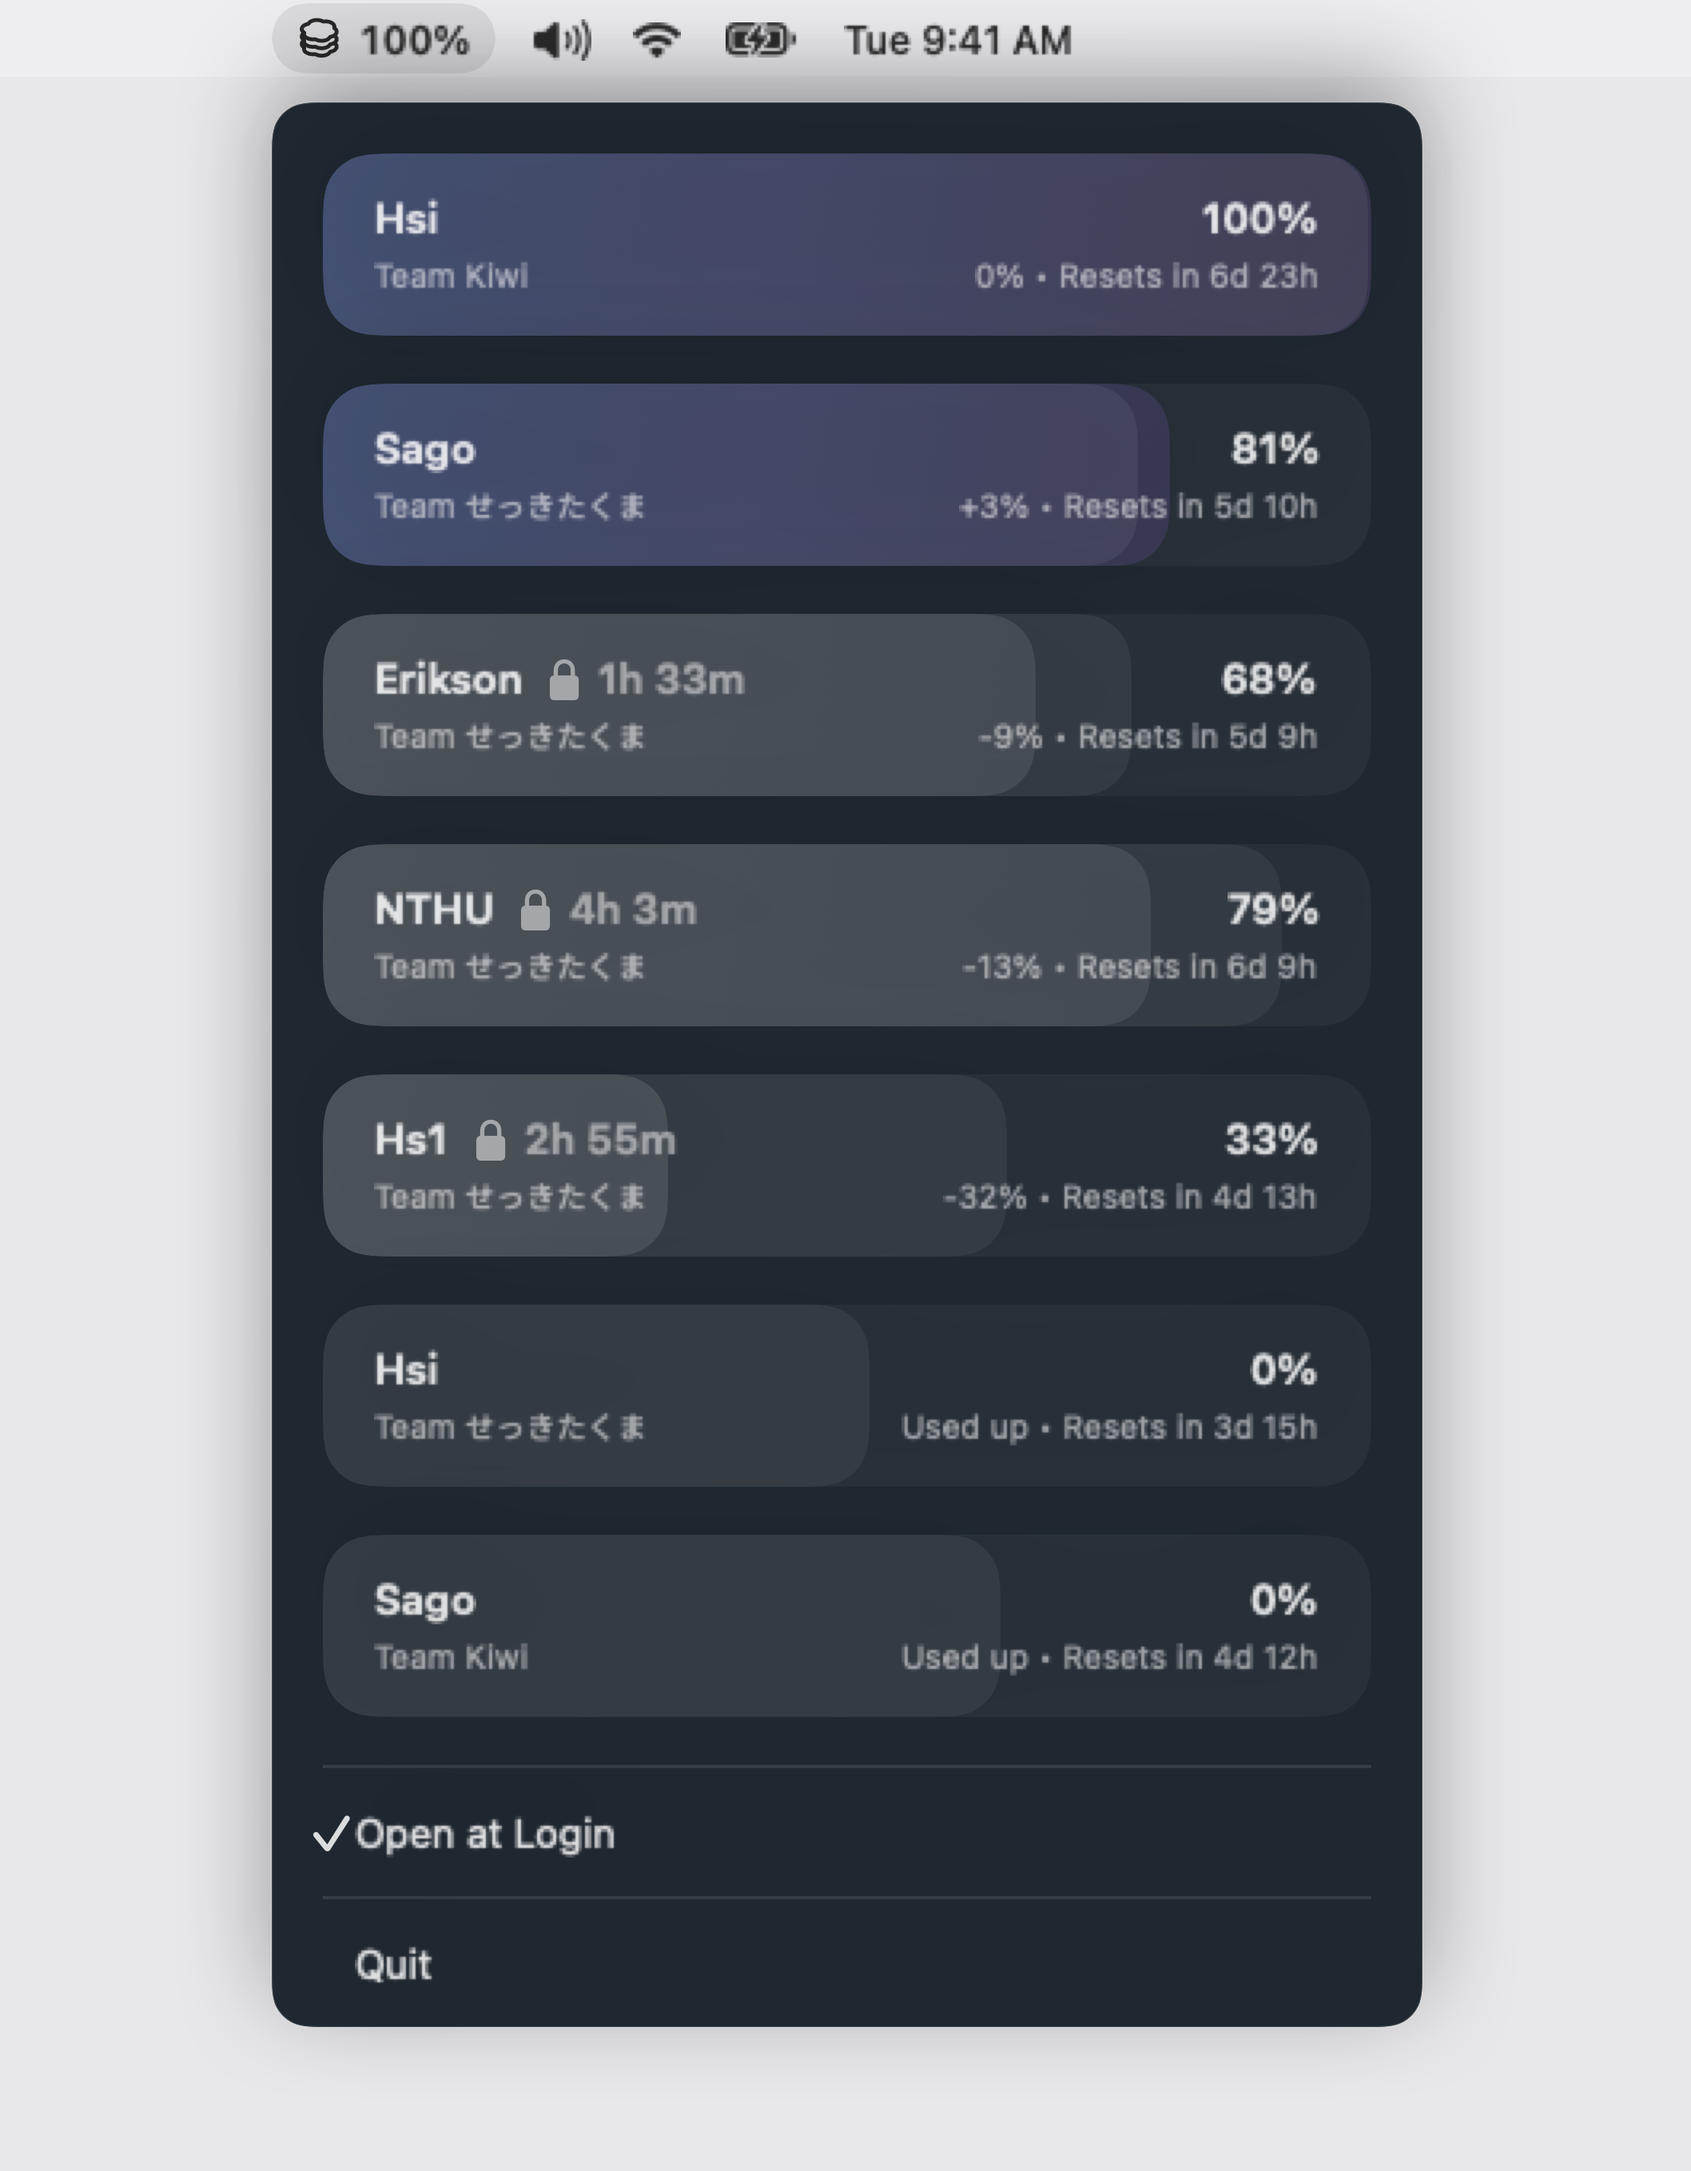
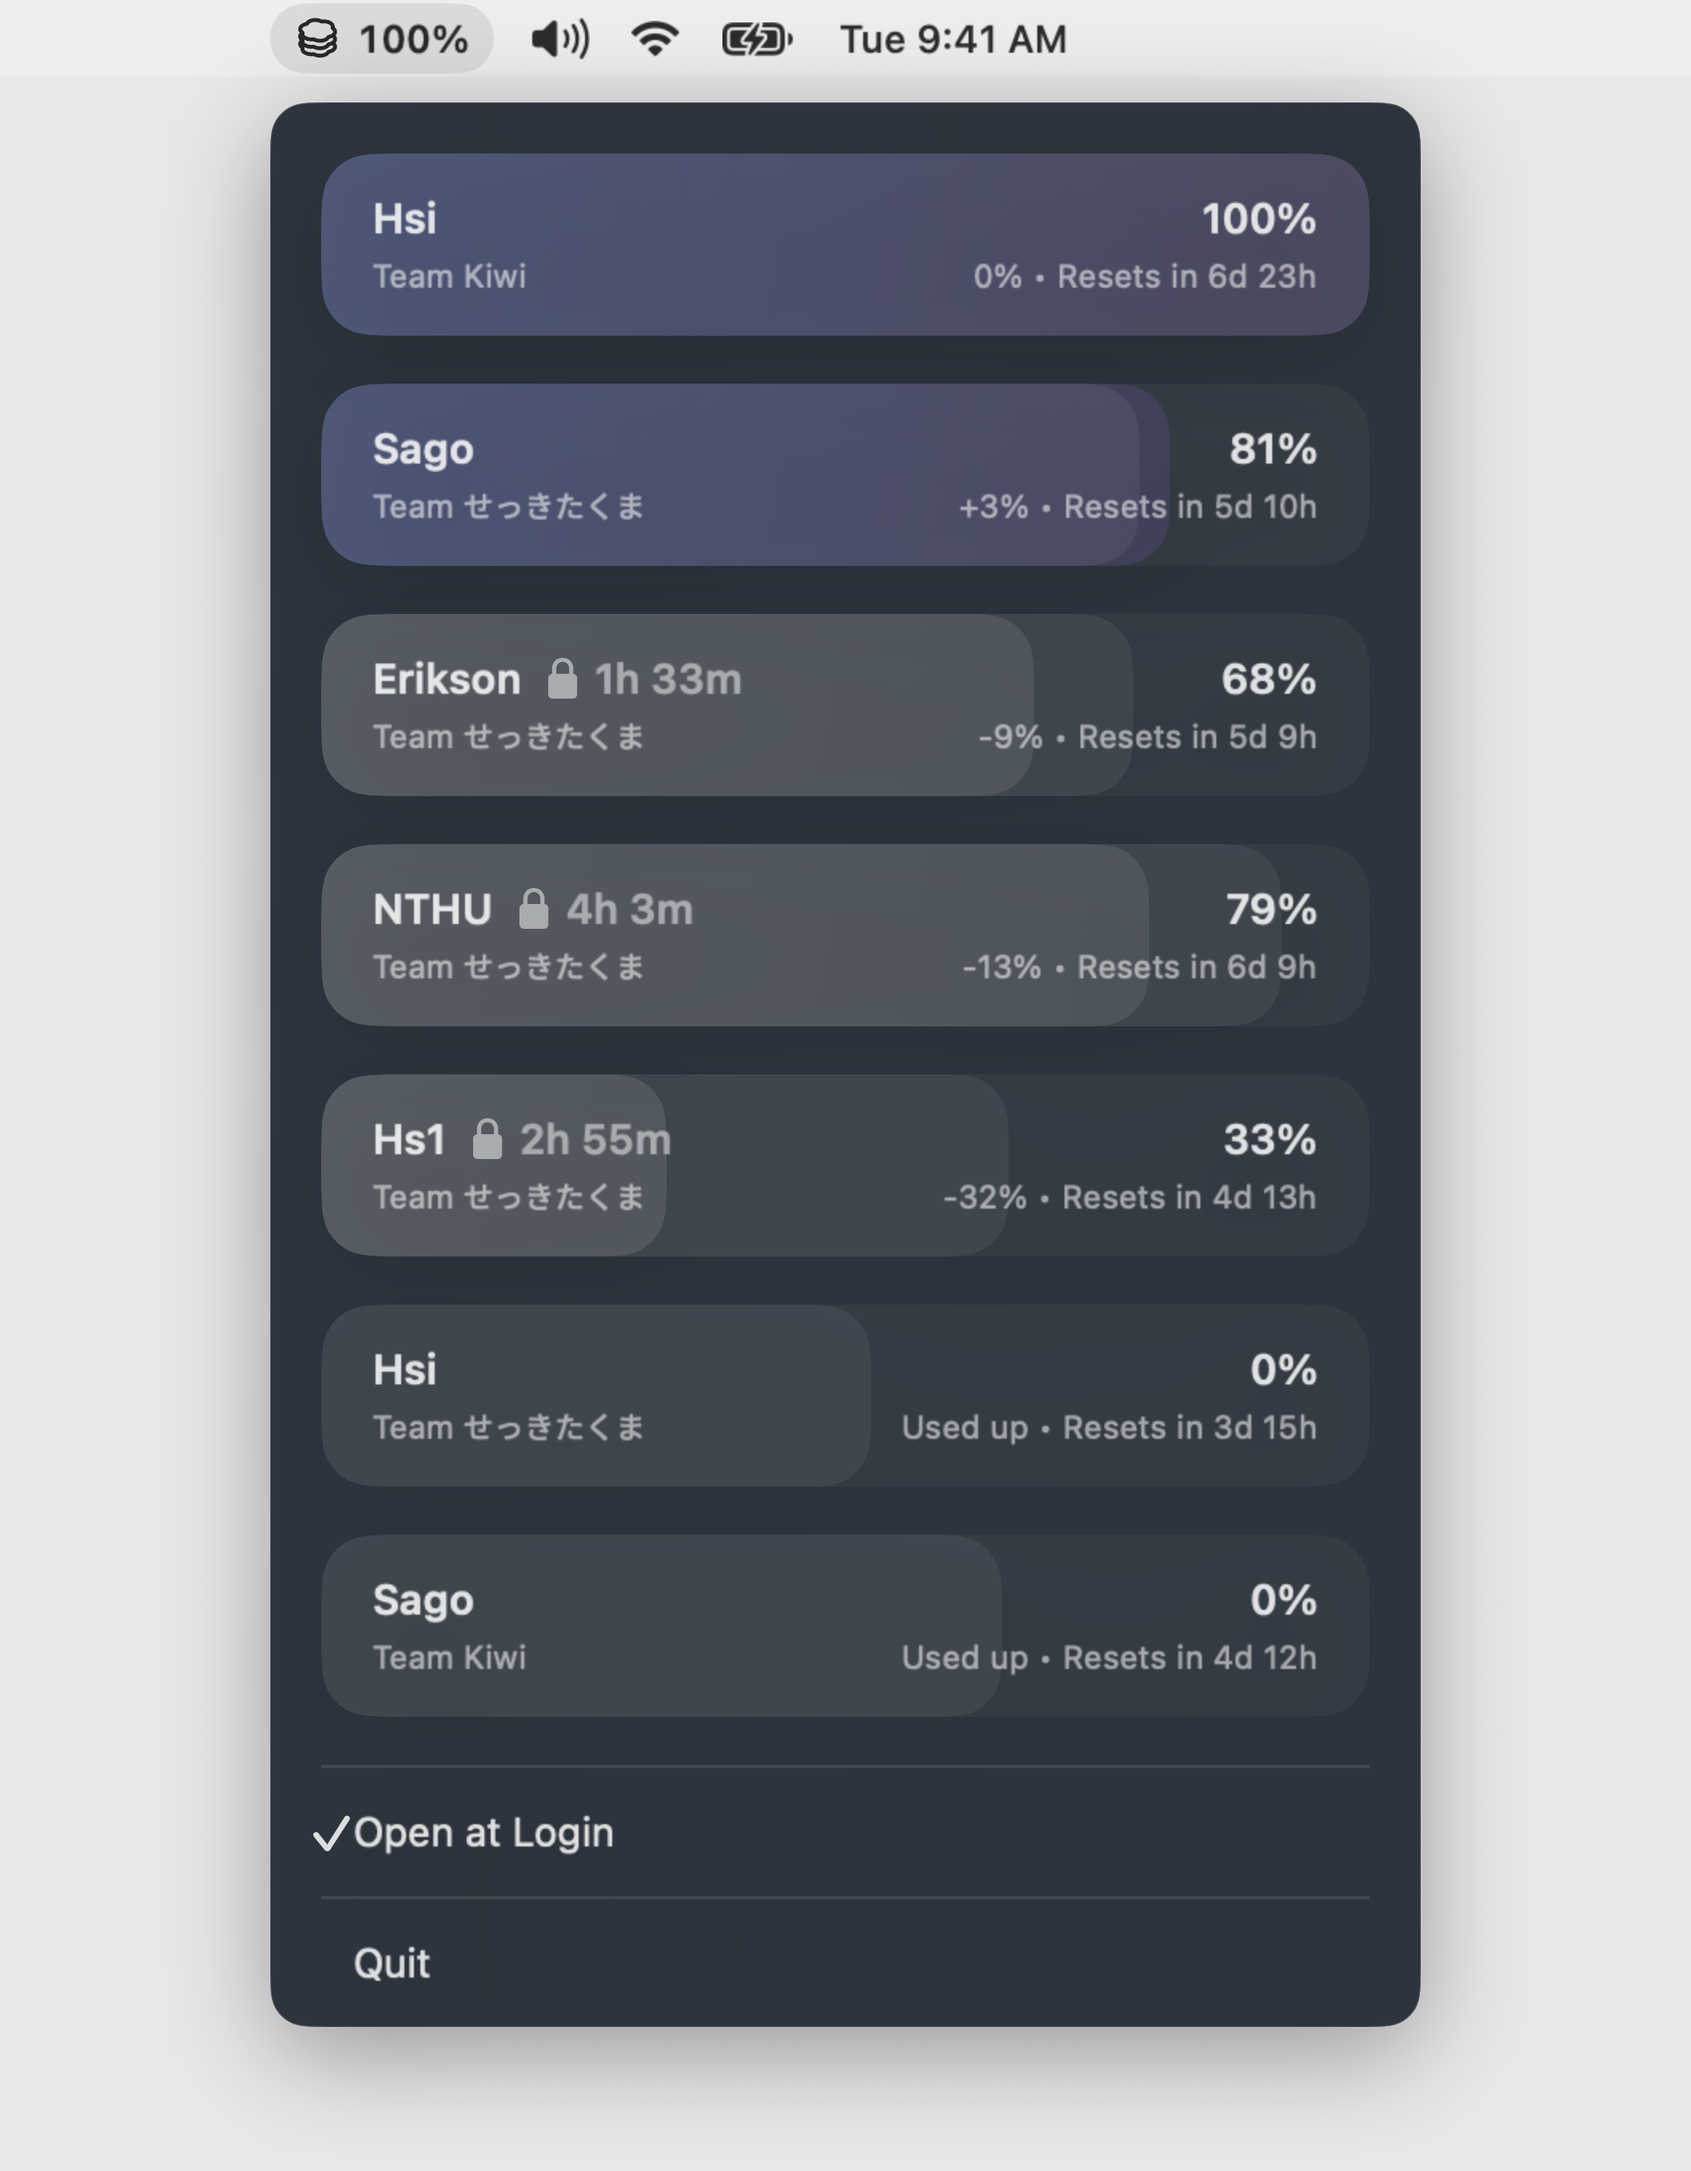
feat: capture demo from native window

diff --git a/tools/DemoMockup.swift b/tools/DemoMockup.swift
@@ -1,11 +1,11 @@
 import AppKit
 import SwiftUI
 
-private let renderScale: CGFloat = 4
+private let windowRenderScale: CGFloat = 2
 private let canvasSize = CGSize(width: 529, height: 679)
-private let outputPixelSize = CGSize(
-    width: canvasSize.width * renderScale,
-    height: canvasSize.height * renderScale
+private let windowSize = CGSize(
+    width: canvasSize.width * windowRenderScale,
+    height: canvasSize.height * windowRenderScale
 )
 private let menuBarHeight: CGFloat = 24
 private let panelWidth: CGFloat = 360
@@ -19,9 +19,10 @@ private let iconPath = "assets/icon.png"
 @MainActor
 struct DemoMockup {
     static func main() throws {
+        NSApplication.shared.setActivationPolicy(.accessory)
         let arguments = CommandLine.arguments.dropFirst()
         let outputPath = arguments.first ?? "assets/demo.png"
-        let image = renderDemoImage()
+        let image = try renderDemoImage()
         try writePNG(image, to: URL(fileURLWithPath: outputPath))
         print("Wrote \(outputPath)")
     }
@@ -148,40 +149,95 @@ private func demoCoordinator() -> PulseCoordinator {
     return coordinator
 }
 
-private func renderDemoImage() -> NSImage {
-    let view = DemoMockupView()
-    let hostingView = NSHostingView(rootView: view)
-    hostingView.frame = CGRect(origin: .zero, size: canvasSize)
-    hostingView.setFrameSize(canvasSize)
+private enum DemoRenderError: Error {
+    case missingScreen
+    case missingWindowID
+    case missingWindowCaptureSymbol
+    case captureFailed
+}
+
+private typealias CGWindowListCreateImageFunction = @convention(c) (
+    CGRect,
+    UInt32,
+    CGWindowID,
+    UInt32
+) -> Unmanaged<CGImage>?
+
+private func renderDemoImage() throws -> NSImage {
+    guard let screen = NSScreen.main else {
+        throw DemoRenderError.missingScreen
+    }
+
+    let rootView = DemoMockupView()
+        .scaleEffect(windowRenderScale, anchor: .topLeading)
+        .frame(width: windowSize.width, height: windowSize.height, alignment: .topLeading)
+    let hostingView = NSHostingView(rootView: rootView)
+    hostingView.frame = CGRect(origin: .zero, size: windowSize)
+    hostingView.setFrameSize(windowSize)
+
+    let window = NSWindow(
+        contentRect: CGRect(origin: .zero, size: windowSize),
+        styleMask: [.borderless],
+        backing: .buffered,
+        defer: false,
+        screen: screen
+    )
+    window.backgroundColor = .clear
+    window.isOpaque = false
+    window.hasShadow = false
+    window.level = .floating
+    window.contentView = hostingView
+    window.setFrameOrigin(
+        CGPoint(
+            x: screen.visibleFrame.midX - (windowSize.width / 2),
+            y: screen.visibleFrame.midY - (windowSize.height / 2)
+        )
+    )
+    window.orderFrontRegardless()
+    window.displayIfNeeded()
     hostingView.layoutSubtreeIfNeeded()
 
-    guard let bitmap = NSBitmapImageRep(
-        bitmapDataPlanes: nil,
-        pixelsWide: Int(outputPixelSize.width),
-        pixelsHigh: Int(outputPixelSize.height),
-        bitsPerSample: 8,
-        samplesPerPixel: 4,
-        hasAlpha: true,
-        isPlanar: false,
-        colorSpaceName: .deviceRGB,
-        bytesPerRow: 0,
-        bitsPerPixel: 0
-    ) else {
-        fatalError("Unable to allocate bitmap for demo mockup.")
+    for _ in 0..<3 {
+        RunLoop.main.run(mode: .default, before: Date().addingTimeInterval(0.05))
+        window.displayIfNeeded()
     }
 
-    bitmap.size = canvasSize
-
-    NSGraphicsContext.saveGraphicsState()
-    if let context = NSGraphicsContext(bitmapImageRep: bitmap) {
-        NSGraphicsContext.current = context
-        hostingView.displayIgnoringOpacity(hostingView.bounds, in: context)
+    guard let windowNumber = CGWindowID(exactly: window.windowNumber) else {
+        throw DemoRenderError.missingWindowID
     }
-    NSGraphicsContext.restoreGraphicsState()
 
-    let image = NSImage(size: canvasSize)
-    image.addRepresentation(bitmap)
+    guard let captureWindow = dynamicWindowCaptureFunction() else {
+        throw DemoRenderError.missingWindowCaptureSymbol
+    }
+
+    let imageOptions: CGWindowImageOption = [.bestResolution, .boundsIgnoreFraming]
+    guard let capturedImage = captureWindow(
+        .null,
+        CGWindowListOption.optionIncludingWindow.rawValue,
+        windowNumber,
+        imageOptions.rawValue
+    )?.takeRetainedValue() else {
+        throw DemoRenderError.captureFailed
+    }
+
+    window.orderOut(nil)
+    let image = NSImage(cgImage: capturedImage, size: NSSize(width: capturedImage.width, height: capturedImage.height))
     return image
+}
+
+private func dynamicWindowCaptureFunction() -> CGWindowListCreateImageFunction? {
+    guard let handle = dlopen(
+        "/System/Library/Frameworks/CoreGraphics.framework/CoreGraphics",
+        RTLD_NOW
+    ) else {
+        return nil
+    }
+
+    guard let symbol = dlsym(handle, "CGWindowListCreateImage") else {
+        return nil
+    }
+
+    return unsafeBitCast(symbol, to: CGWindowListCreateImageFunction.self)
 }
 
 private func writePNG(_ image: NSImage, to url: URL) throws {
